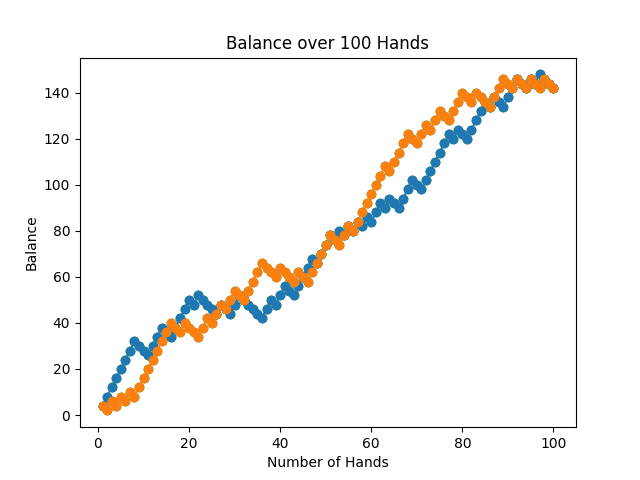
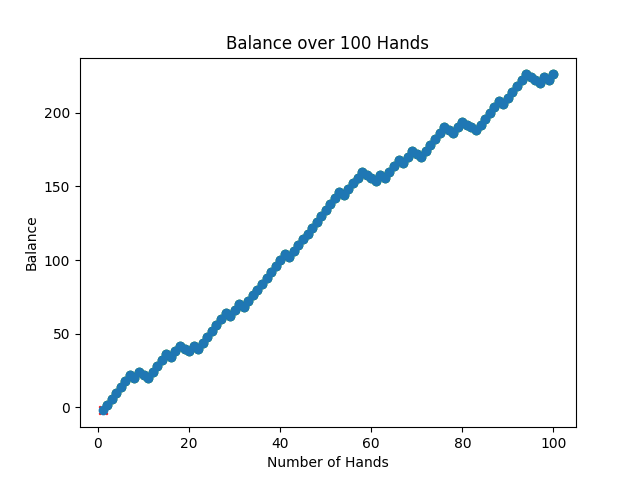
strategy bets two everytime fib the same

diff --git a/balance_history.md b/balance_history.md
@@ -1,0 +1,102 @@
+| Hand Number | Total Win | Total Loss | Balance | Winning Number | Total Bet |
+|-------------|-----------|------------|---------|----------------|-----------|
+|           1 |         0 |          2 |      -2 |             36 |         2 |
+|           2 |         2 |          2 |       2 |             20 |         2 |
+|           3 |         4 |          2 |       6 |             15 |         2 |
+|           4 |         6 |          2 |      10 |             18 |         2 |
+|           5 |         8 |          2 |      14 |             18 |         2 |
+|           6 |        10 |          2 |      18 |              1 |         2 |
+|           7 |        12 |          2 |      22 |             13 |         2 |
+|           8 |        12 |          4 |      20 |             25 |         2 |
+|           9 |        14 |          4 |      24 |             15 |         2 |
+|          10 |        14 |          6 |      22 |             32 |         2 |
+|          11 |        14 |          8 |      20 |             33 |         2 |
+|          12 |        16 |          8 |      24 |              5 |         2 |
+|          13 |        18 |          8 |      28 |             22 |         2 |
+|          14 |        20 |          8 |      32 |              6 |         2 |
+|          15 |        22 |          8 |      36 |              4 |         2 |
+|          16 |        22 |         10 |      34 |             36 |         2 |
+|          17 |        24 |         10 |      38 |             15 |         2 |
+|          18 |        26 |         10 |      42 |             24 |         2 |
+|          19 |        26 |         12 |      40 |             31 |         2 |
+|          20 |        26 |         14 |      38 |             31 |         2 |
+|          21 |        28 |         14 |      42 |             11 |         2 |
+|          22 |        28 |         16 |      40 |             28 |         2 |
+|          23 |        30 |         16 |      44 |              3 |         2 |
+|          24 |        32 |         16 |      48 |             17 |         2 |
+|          25 |        34 |         16 |      52 |              5 |         2 |
+|          26 |        36 |         16 |      56 |              6 |         2 |
+|          27 |        38 |         16 |      60 |              6 |         2 |
+|          28 |        40 |         16 |      64 |             19 |         2 |
+|          29 |        40 |         18 |      62 |             30 |         2 |
+|          30 |        42 |         18 |      66 |             16 |         2 |
+|          31 |        44 |         18 |      70 |              6 |         2 |
+|          32 |        44 |         20 |      68 |             33 |         2 |
+|          33 |        46 |         20 |      72 |             15 |         2 |
+|          34 |        48 |         20 |      76 |              5 |         2 |
+|          35 |        50 |         20 |      80 |             22 |         2 |
+|          36 |        52 |         20 |      84 |              1 |         2 |
+|          37 |        54 |         20 |      88 |             16 |         2 |
+|          38 |        56 |         20 |      92 |              5 |         2 |
+|          39 |        58 |         20 |      96 |              9 |         2 |
+|          40 |        60 |         20 |     100 |              7 |         2 |
+|          41 |        62 |         20 |     104 |             24 |         2 |
+|          42 |        62 |         22 |     102 |             33 |         2 |
+|          43 |        64 |         22 |     106 |             18 |         2 |
+|          44 |        66 |         22 |     110 |             16 |         2 |
+|          45 |        68 |         22 |     114 |             17 |         2 |
+|          46 |        70 |         22 |     118 |             11 |         2 |
+|          47 |        72 |         22 |     122 |             14 |         2 |
+|          48 |        74 |         22 |     126 |             24 |         2 |
+|          49 |        76 |         22 |     130 |             18 |         2 |
+|          50 |        78 |         22 |     134 |             17 |         2 |
+|          51 |        80 |         22 |     138 |             22 |         2 |
+|          52 |        82 |         22 |     142 |             20 |         2 |
+|          53 |        84 |         22 |     146 |             16 |         2 |
+|          54 |        84 |         24 |     144 |             33 |         2 |
+|          55 |        86 |         24 |     148 |             11 |         2 |
+|          56 |        88 |         24 |     152 |             13 |         2 |
+|          57 |        90 |         24 |     156 |             13 |         2 |
+|          58 |        92 |         24 |     160 |             15 |         2 |
+|          59 |        92 |         26 |     158 |             25 |         2 |
+|          60 |        92 |         28 |     156 |             35 |         2 |
+|          61 |        92 |         30 |     154 |             32 |         2 |
+|          62 |        94 |         30 |     158 |              9 |         2 |
+|          63 |        94 |         32 |     156 |             36 |         2 |
+|          64 |        96 |         32 |     160 |             23 |         2 |
+|          65 |        98 |         32 |     164 |              4 |         2 |
+|          66 |       100 |         32 |     168 |             10 |         2 |
+|          67 |       100 |         34 |     166 |             27 |         2 |
+|          68 |       102 |         34 |     170 |             12 |         2 |
+|          69 |       104 |         34 |     174 |              6 |         2 |
+|          70 |       104 |         36 |     172 |             26 |         2 |
+|          71 |       104 |         38 |     170 |             26 |         2 |
+|          72 |       106 |         38 |     174 |             23 |         2 |
+|          73 |       108 |         38 |     178 |              5 |         2 |
+|          74 |       110 |         38 |     182 |             19 |         2 |
+|          75 |       112 |         38 |     186 |             12 |         2 |
+|          76 |       114 |         38 |     190 |             17 |         2 |
+|          77 |       114 |         40 |     188 |             25 |         2 |
+|          78 |       114 |         42 |     186 |              0 |         2 |
+|          79 |       116 |         42 |     190 |              3 |         2 |
+|          80 |       118 |         42 |     194 |             11 |         2 |
+|          81 |       118 |         44 |     192 |             32 |         2 |
+|          82 |       118 |         46 |     190 |             -1 |         2 |
+|          83 |       118 |         48 |     188 |             33 |         2 |
+|          84 |       120 |         48 |     192 |             20 |         2 |
+|          85 |       122 |         48 |     196 |             13 |         2 |
+|          86 |       124 |         48 |     200 |             19 |         2 |
+|          87 |       126 |         48 |     204 |             20 |         2 |
+|          88 |       128 |         48 |     208 |              1 |         2 |
+|          89 |       128 |         50 |     206 |             36 |         2 |
+|          90 |       130 |         50 |     210 |              6 |         2 |
+|          91 |       132 |         50 |     214 |             10 |         2 |
+|          92 |       134 |         50 |     218 |              8 |         2 |
+|          93 |       136 |         50 |     222 |             11 |         2 |
+|          94 |       138 |         50 |     226 |             17 |         2 |
+|          95 |       138 |         52 |     224 |             32 |         2 |
+|          96 |       138 |         54 |     222 |             -1 |         2 |
+|          97 |       138 |         56 |     220 |             29 |         2 |
+|          98 |       140 |         56 |     224 |              3 |         2 |
+|          99 |       140 |         58 |     222 |             29 |         2 |
+|         100 |       142 |         58 |     226 |             14 |         2 |
